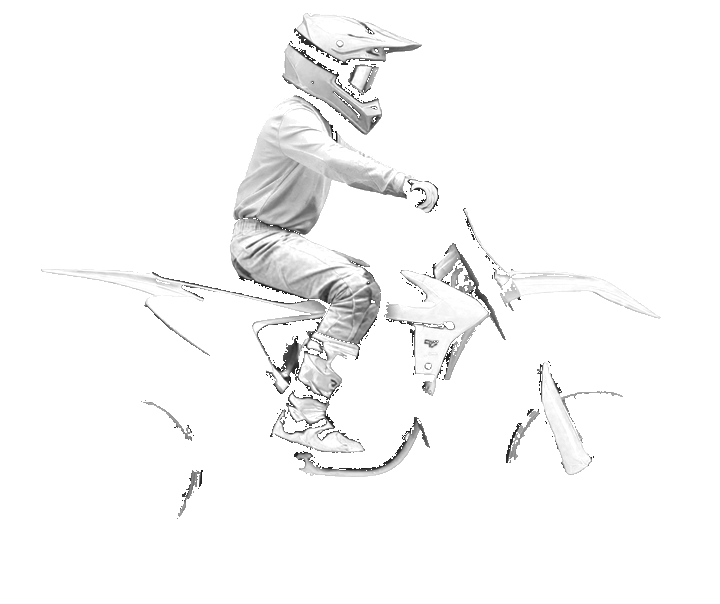
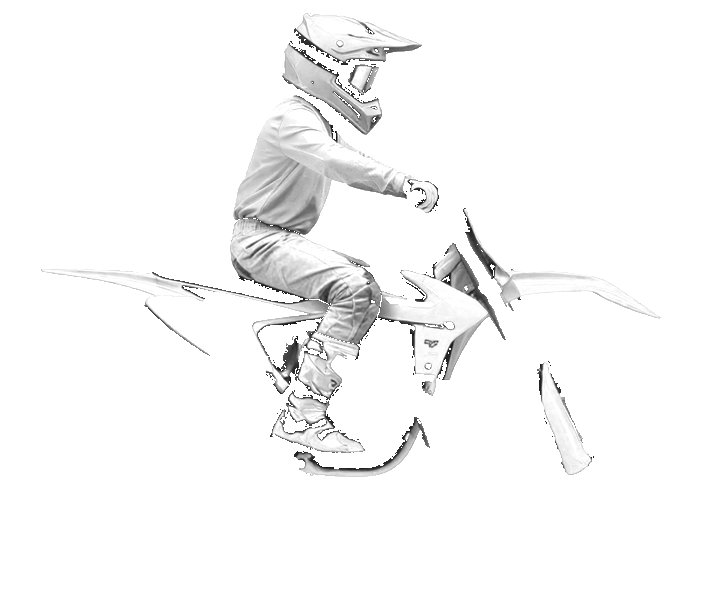
Number boards show properly, front number leans with the fork, paint reaches all the plastics

diff --git a/index.html b/index.html
@@ -7046,9 +7046,9 @@ Jordy's Science test, Tuesday 10 November: Planet Earth and Beyond. Written from
   const SEATS = {
     mini: { w: 720, h: 783, side: [[124, 456], [212, 468], [204, 528], [140, 505]], front: [[447, 345], [487, 338], [517, 406], [482, 413]], shirt: [[148, 262], [210, 276], [205, 322], [142, 312]], logo: [[310, 462], [432, 462], [430, 486], [305, 488]] },
     mx: { w: 720, h: 671, side: [[152, 352], [234, 360], [232, 404], [162, 392]], front: [[438, 250], [480, 262], [498, 300], [458, 296]], shirt: [[212, 180], [262, 186], [262, 230], [210, 226]], logo: [[352, 350], [445, 356], [442, 374], [352, 368]] },
-    enduro: { w: 720, h: 559, side: [[205, 280], [275, 296], [268, 328], [215, 312]], front: [[483, 176], [510, 188], [534, 246], [505, 235]], frontPatch: true, shirt: [[262, 135], [310, 145], [312, 195], [258, 188]], logo: [[420, 280], [498, 296], [494, 312], [418, 298]] },
-    hard: { w: 720, h: 620, side: [[150, 305], [238, 318], [232, 356], [172, 340]], front: [[447, 224], [480, 214], [505, 276], [476, 280]], shirt: [[235, 145], [285, 152], [288, 205], [230, 198]], logo: [[395, 290], [468, 318], [462, 332], [392, 305]] },
-    factory: { w: 720, h: 604, side: [[170, 304], [258, 314], [262, 364], [196, 342]], front: [[466, 214], [495, 220], [517, 266], [490, 272]], shirt: [[242, 140], [295, 150], [298, 205], [236, 198]], logo: [[395, 300], [485, 310], [482, 328], [392, 318]] },
+    enduro: { w: 720, h: 559, side: [[205, 280], [275, 296], [268, 328], [215, 312]], front: [[486, 178], [514, 190], [538, 246], [509, 236]], frontPatch: true, shirt: [[262, 135], [310, 145], [312, 195], [258, 188]], logo: [[420, 280], [498, 296], [494, 312], [418, 298]] },
+    hard: { w: 720, h: 620, side: [[150, 305], [238, 318], [232, 356], [172, 340]], front: [[452, 222], [486, 212], [512, 276], [481, 282]], frontPatch: true, shirt: [[235, 145], [285, 152], [288, 205], [230, 198]], logo: [[395, 290], [468, 318], [462, 332], [392, 305]] },
+    factory: { w: 720, h: 604, side: [[170, 304], [258, 314], [262, 364], [196, 342]], front: [[468, 213], [504, 219], [526, 268], [493, 274]], frontPatch: true, shirt: [[242, 140], [295, 150], [298, 205], [236, 198]], logo: [[395, 300], [485, 310], [482, 328], [392, 318]] },
   };
   let svgNo = 0;
   const stickerFill = (s, scale = 1) => {
@@ -7110,7 +7110,7 @@ Jordy's Science test, Tuesday 10 November: Planet Earth and Beyond. Written from
     const num = h(String(p.plate));
     const coat = (part, fill) => (fill ? `<i style="-webkit-mask-image:url(img/${id}-${part}.webp);mask-image:url(img/${id}-${part}.webp);background:${fill}"></i>` : '');
     const alt = label === undefined ? `Rider on a ${BIKES[id].label} bike in ${paint.label}` : label;
-    const patch = spot.frontPatch ? `<path d="M${spot.front[0]}L${spot.front[1]}L${spot.front[2]}L${spot.front[3]}Z" fill="#fff" stroke="#fff" stroke-width="5" stroke-linejoin="round"/>` : '';
+    const patch = spot.frontPatch ? `<path d="M${spot.front[0]}L${spot.front[1]}L${spot.front[2]}L${spot.front[3]}Z" fill="#fff" stroke="#C9CDD4" stroke-width="1.5" stroke-linejoin="round"/>` : '';
     return `<div class="rig">
       <img class="shot" src="img/photo-${id}.webp" alt="${alt}" width="${spot.w}" height="${spot.h}" decoding="sync">
       ${coat('plastic', paint.coat || paint.hex)}${sticker && sticker.art ? coat('plastic', stickerSheet(sticker, spot)) : ''}

diff --git a/sw.js b/sw.js
@@ -1,7 +1,7 @@
 /* Lets Holeshot open with no internet once it has been opened online.
    Pages come from the network when it answers quickly, so updates reach the boys straight away.
    build.mjs fills in the version and the file list. */
-const CACHE = 'holeshot-eba0649d73';
+const CACHE = 'holeshot-b76ff8c7b9';
 const FILES = ["./","manifest.webmanifest","img/bike-enduro.webp","img/bike-factory.webp","img/bike-hard.webp","img/bike-mini.webp","img/bike-mx.webp","img/enduro-boots.webp","img/enduro-boots2.webp","img/enduro-gloves.webp","img/enduro-helmet.webp","img/enduro-jersey.webp","img/enduro-jersey2.webp","img/enduro-lens.webp","img/enduro-pants.webp","img/enduro-pants2.webp","img/enduro-peak.webp","img/enduro-plastic.webp","img/enduro-shade.webp","img/factory-boots.webp","img/factory-boots2.webp","img/factory-gloves.webp","img/factory-helmet.webp","img/factory-jersey.webp","img/factory-jersey2.webp","img/factory-lens.webp","img/factory-pants.webp","img/factory-pants2.webp","img/factory-peak.webp","img/factory-plastic.webp","img/factory-shade.webp","img/finish.webp","img/hard-boots.webp","img/hard-boots2.webp","img/hard-gloves.webp","img/hard-helmet.webp","img/hard-jersey.webp","img/hard-jersey2.webp","img/hard-lens.webp","img/hard-pants.webp","img/hard-pants2.webp","img/hard-peak.webp","img/hard-plastic.webp","img/hard-shade.webp","img/hero-jump.webp","img/icon-180.png","img/icon-192.png","img/icon-512.png","img/main-event.webp","img/mini-boots.webp","img/mini-boots2.webp","img/mini-gloves.webp","img/mini-helmet.webp","img/mini-jersey.webp","img/mini-jersey2.webp","img/mini-lens.webp","img/mini-pants.webp","img/mini-pants2.webp","img/mini-peak.webp","img/mini-plastic.webp","img/mini-shade.webp","img/mx-boots.webp","img/mx-boots2.webp","img/mx-gloves.webp","img/mx-helmet.webp","img/mx-jersey.webp","img/mx-jersey2.webp","img/mx-lens.webp","img/mx-pants.webp","img/mx-pants2.webp","img/mx-peak.webp","img/mx-plastic.webp","img/mx-shade.webp","img/photo-enduro.webp","img/photo-factory.webp","img/photo-hard.webp","img/photo-mini.webp","img/photo-mx.webp","img/stop-bends.webp","img/stop-berm.webp","img/stop-climb.webp","img/stop-gate.webp","img/stop-log.webp","img/stop-mud.webp","img/stop-river.webp","img/stop-rocks.webp","img/stop-table.webp","img/stop-whoops.webp"];
 
 self.addEventListener('install', (e) => {
